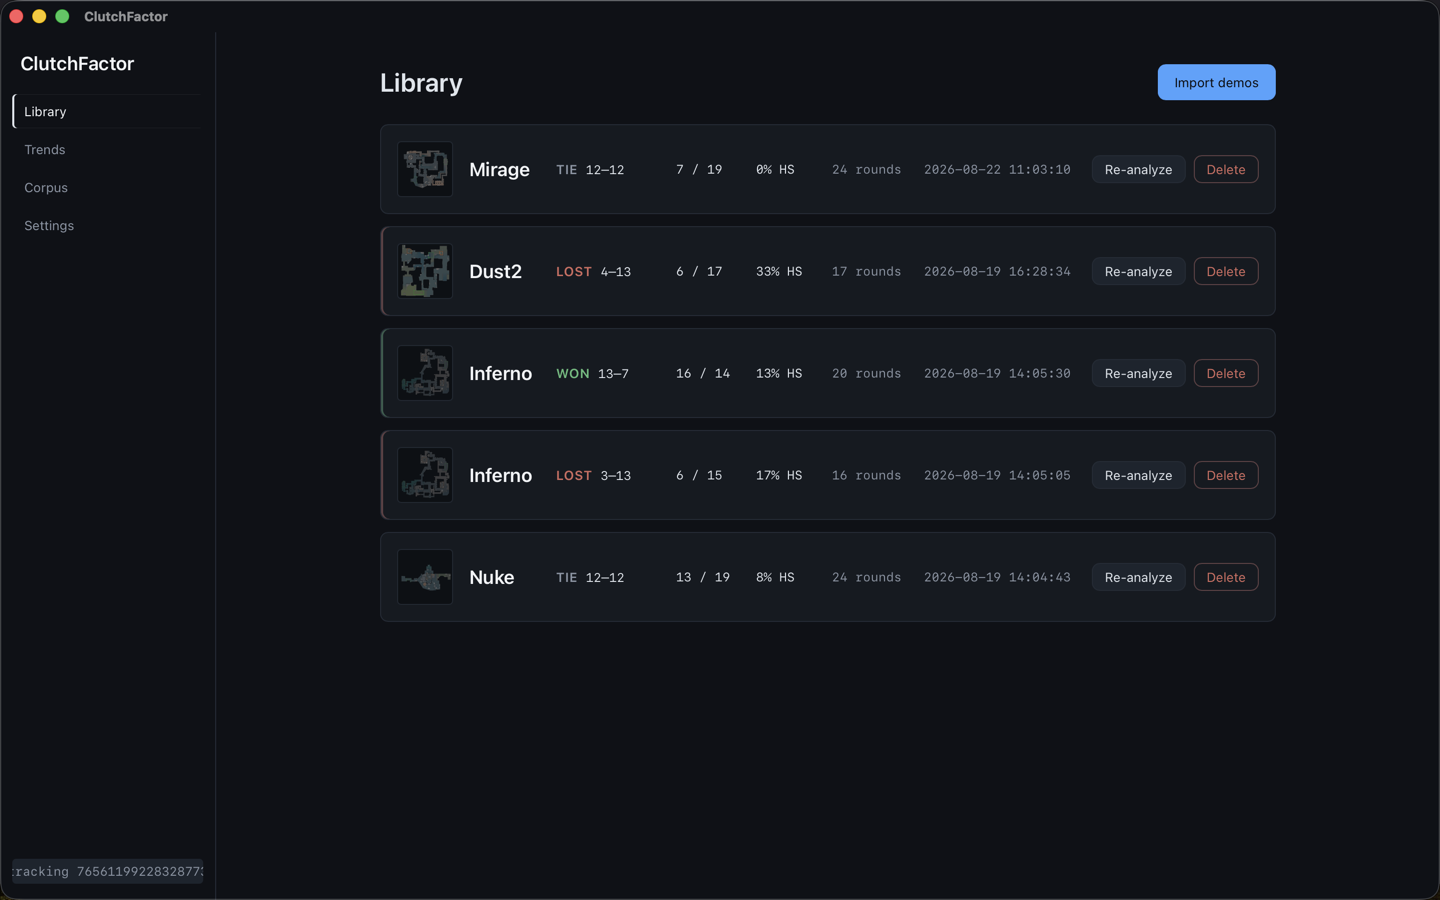
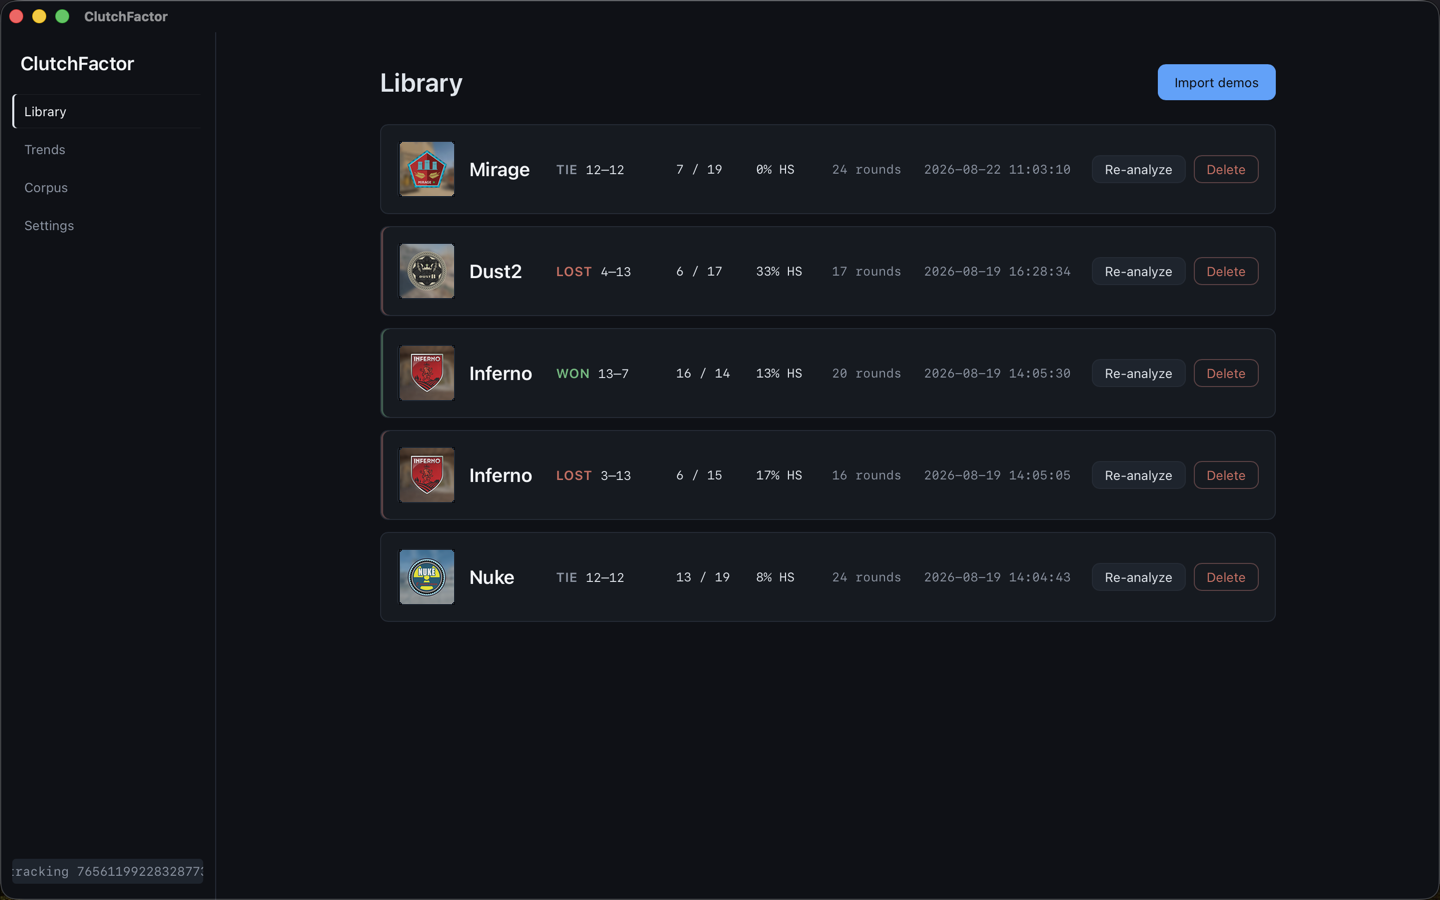
feat(lib): CS2 map preview thumbnails instead of radar (#38) (#52)
* chore(assets): vendor CS2 map-selection preview icons

Library thumbnails need the in-game map badges, not radar tiles.
Pulled 512×512 icons for the current map pool from MurkyYT/cs2-map-icons
into assets/maps/previews/ and documented the source in ATTRIBUTION.md.

* feat(lib): use CS2 map preview thumbnails on Library rows

MapThumb now loads mapPreviewImageUrl (separate from radarImageUrl) so
replay radars stay unchanged while Library rows match CS2 map-selection
visuals, with the existing two-letter fallback on missing assets.

* docs(readme): refresh Library screenshot with map preview thumbs

Replace the radar-tile Library shot so the README matches the new
CS2 map-selection badges on each row (#38).

* fix(lib): use competitive-queue scenic map backgrounds

Swap the black map-badge icons for the CS2 queue scenic screenshots
(center-cropped 256² from MurkyYT thumbs) so Library rows match the
in-game map cards the issue asked for.

* fix(lib): overlay map badge on blurred scenic background

Match the competitive-queue card look: each Library thumb is now a
composited tile (Gaussian-blurred map screenshot + centered map icon).

---------

diff --git a/src/screens/Library.tsx b/src/screens/Library.tsx
@@ -14,7 +14,7 @@ import { errorMessage } from "../lib/errors";
 import { useDeleteMatch, useImportDemo, useMatches, useReAnalyzeMatch } from "../lib/queries";
 import { formatMatchRow } from "../lib/score";
 import { mapInitials, mapName } from "../lib/mapName";
-import { radarImageUrl } from "../replay/coords";
+import { mapPreviewImageUrl } from "../replay/coords";
 import { Button } from "../components/ui/Button";
 import { Card } from "../components/ui/Card";
 import { EmptyState } from "../components/ui/EmptyState";
@@ -36,9 +36,9 @@ const EDGE_BY_RESULT: Record<"W" | "L" | "T", "win" | "loss" | undefined> = {
   T: undefined,
 };
 
-// The radar image as a 56px tile (spec §1 "Library thumbnails"). Decorative:
-// the row's aria-label already names the map, so the image is aria-hidden.
-// A map with no vendored radar (404) falls back to a two-letter mono tile.
+// CS2 competitive-queue map tile (blurred scenic + badge) as a 56px thumb
+// (issue #38; design-system §9). Decorative: the row's aria-label already
+// names the map, so the image is aria-hidden. Missing preview → mono tile.
 function MapThumb({ map }: { map: string }) {
   const [failed, setFailed] = useState(false);
   if (failed) {
@@ -51,7 +51,7 @@ function MapThumb({ map }: { map: string }) {
   return (
     <img
       className="library-row-thumb"
-      src={radarImageUrl(map, "upper")}
+      src={mapPreviewImageUrl(map)}
       alt=""
       aria-hidden="true"
       onError={() => setFailed(true)}

diff --git a/src/replay/coords.test.ts b/src/replay/coords.test.ts
@@ -1,5 +1,5 @@
 import { describe, expect, it } from "vitest";
-import { radarImageUrl, radarLayer, worldToRadar } from "./coords";
+import { mapPreviewImageUrl, radarImageUrl, radarLayer, worldToRadar } from "./coords";
 import type { MapCalibration } from "./coords";
 
 // Real values from assets/maps/map-data.json
@@ -54,5 +54,12 @@ describe("radarImageUrl", () => {
   it("builds layer-specific urls", () => {
     expect(radarImageUrl("de_nuke", "upper")).toBe("/maps/de_nuke.png");
     expect(radarImageUrl("de_nuke", "lower")).toBe("/maps/de_nuke_lower.png");
+  });
+});
+
+describe("mapPreviewImageUrl", () => {
+  it("points at the vendored preview icon, not the radar", () => {
+    expect(mapPreviewImageUrl("de_mirage")).toBe("/maps/previews/de_mirage.png");
+    expect(mapPreviewImageUrl("de_nuke")).not.toBe(radarImageUrl("de_nuke", "upper"));
   });
 });

diff --git a/src/styles/screens.css b/src/styles/screens.css
@@ -381,8 +381,8 @@ a.stats-chip:hover {
   overflow: hidden;
 }
 
-/* Radar thumbnail (spec §1): cover-fit, hairline, dimmed until the row is
-   hovered/focused so the map reads as furniture, not a photo strip. */
+/* Competitive-queue map tile (issue #38): blurred scenic + badge, cover-fit
+   into 56px, hairline. Replay still uses radar. */
 .library-row-thumb {
   width: 56px;
   height: 56px;
@@ -390,7 +390,8 @@ a.stats-chip:hover {
   border: 1px solid var(--line);
   background: var(--bg-tape);
   object-fit: cover;
-  opacity: 0.8;
+  object-position: center;
+  opacity: 0.9;
   transition: opacity var(--dur-fast) var(--ease);
 }
 

diff --git a/src/replay/coords.ts b/src/replay/coords.ts
@@ -27,3 +27,8 @@ export function radarLayer(cal: MapCalibration, z: number): "upper" | "lower" {
 export function radarImageUrl(map: string, layer: "upper" | "lower"): string {
   return layer === "lower" ? `/maps/${map}_lower.png` : `/maps/${map}.png`;
 }
+
+/** CS2 competitive-queue map tile: blurred scenic + badge (not the radar). */
+export function mapPreviewImageUrl(map: string): string {
+  return `/maps/previews/${map}.png`;
+}

diff --git a/assets/maps/ATTRIBUTION.md b/assets/maps/ATTRIBUTION.md
@@ -1,12 +1,23 @@
-# Radar assets attribution
+# Radar & map-preview assets attribution
 
 - Radar images (`*.png`, incl. `_lower` variants) and `map-data.json` calibration
   constants come from the **awpy** project's map artifact bundle
   (https://github.com/pnxenopoulos/awpy, MIT license), artifact build **17595823**
   (CS2 patch 2025-03-04), downloaded from `https://awpycs.com/17595823/maps.zip`.
-- The radar imagery itself is derived from Counter-Strike 2 game files,
+- Library map-preview images (`previews/*.png`) are CS2 competitive-queue style
+  composites: blurred scenic screenshot behind the map badge icon. Both layers
+  come from the official game depot via
+  [MurkyYT/cs2-map-icons](https://github.com/MurkyYT/cs2-map-icons)
+  (`images/thumbs/<map>_png.png` + `images/<map>.png`), center-cropped /
+  composited to 256×256. They replace the flat radar tiles on Library rows
+  only — the replay viewer still uses the awpy radar PNGs.
+- Radar and preview imagery are derived from Counter-Strike 2 game files,
   © Valve Corporation. Used here as community-standard practice in a free,
   local analysis tool; not affiliated with or endorsed by Valve.
-- To update for a new CS2 patch: check `awpy/data/__init__.py` for the current
-  build id, download the new `maps.zip`, diff `map-data.json`, replace files,
-  and update the build id here and in ADR-0004.
+- To update radars for a new CS2 patch: check `awpy/data/__init__.py` for the
+  current build id, download the new `maps.zip`, diff `map-data.json`, replace
+  files, and update the build id here and in ADR-0004. To refresh previews:
+  pull `images/thumbs/<map>_png.png` (scene) and `images/<map>.png` (badge)
+  from `MurkyYT/cs2-map-icons`, center-crop the scene to square, Gaussian-blur
+  + dim it, overlay the badge at ~72% scale, resize to 256×256, write into
+  `previews/`.

diff --git a/docs/design/design-system.md b/docs/design/design-system.md
@@ -234,7 +234,8 @@ screen-specific brief AND `dataviz` (for any chart) before writing each
 screen's code; screenshot + self-critique against this doc before done.**
 
 - **Library** — the shelf of tapes. Match rows become Table rows with a 2px
-  win/loss edge and a radar map thumbnail; import queue uses
+  win/loss edge and a CS2 competitive-queue map thumbnail (blurred scenic
+  background + map badge, 56×56; radar stays for Replay); import queue uses
   ImportQueuePanel + Toast for completion.
 - **Report** — the coach's write-up. Coach-note becomes the editorial lead;
   insight cards on Card with severity edge + evidence chips (dashed); class
